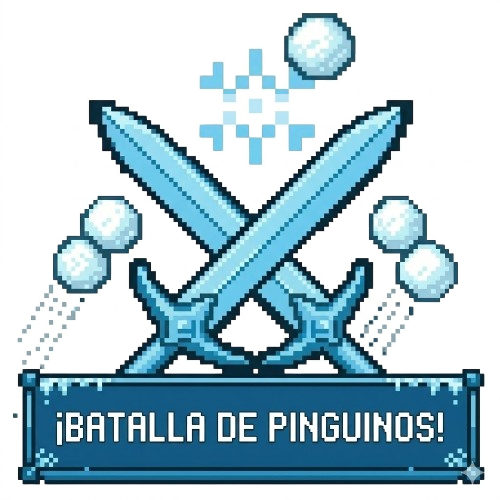
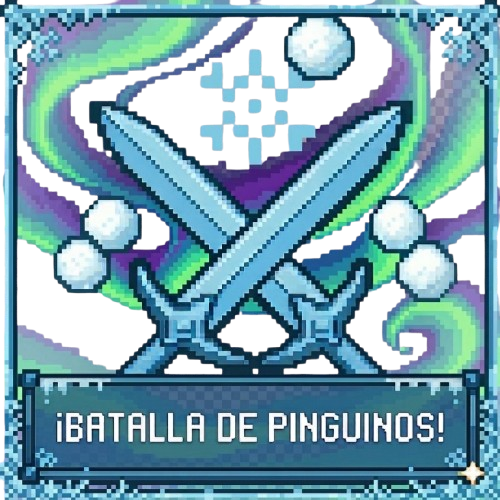
Recomentado algunos javas y renovado una imagen
GestionarBatallaTEXTO ahora tiene una aurora boreal.

diff --git a/El_Joc_Del_Pingu/src/model/caselles/Event.java b/El_Joc_Del_Pingu/src/model/caselles/Event.java
@@ -10,8 +10,7 @@ import model.items.Peix;
 import java.util.Random;
 
 /**
- * Casella Event: el pingüí rep un ítem aleatori (peix, boles de neu o dau
- * especial).
+ * Casella Event: el pingüí rep un ítem aleatori (peix, boles de neu o dau especial).
  */
 public class Event extends Casella {
 

diff --git a/El_Joc_Del_Pingu/src/controlador/LlegirEnv.java b/El_Joc_Del_Pingu/src/controlador/LlegirEnv.java
@@ -6,7 +6,7 @@ import java.io.IOException;
 import java.util.HashMap;
 import java.util.Map;
 
-public class LlegirEnv{
+public class LlegirEnv{ // Para leer las creedenciales de la Base de Datos (BBDD o BD)
     private static Map<String, String> envVars = new HashMap<>();
 
     static {

diff --git a/El_Joc_Del_Pingu/src/model/entitats/Pinguino.java b/El_Joc_Del_Pingu/src/model/entitats/Pinguino.java
@@ -19,7 +19,7 @@ public class Pinguino extends Jugador {
 		this.victories = 0;
 	}
 
-/// GETTERS
+/// GETTERS I SETTERS
 	public Inventari getInventari() {
 		return inventari;
 	}
